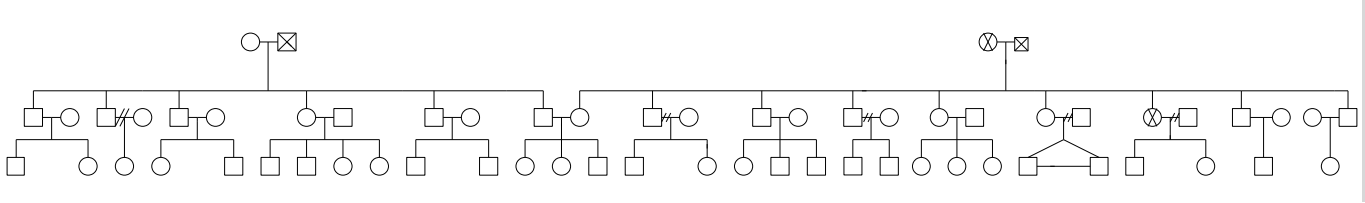
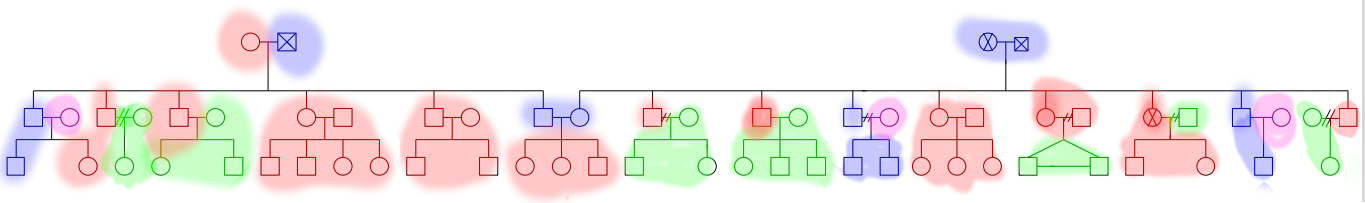
edição dos textos

diff --git a/content/A família.md b/content/A família.md
@@ -1,37 +1,59 @@
 ---
 title: "A família"
-isHome: true
 ---
+&nbsp;
 
-A característica que mais marca a minha família é sem dúvida os processos migratórios que grande parte dos membros vivenciam no decorrer de sua vida. Em função de ser uma família oriunda de uma cidade muito pequena do interior, sem muita oportunidades de emprego ou estudo, desde a geração dos meus pais, é muito comum que os membros saiam em busca de oportunidades em grandes centros, processo que é definido por Osório, et al (Ano, p. 35) como migração interna.
+A característica que mais marca a minha família é sem dúvida os processos migratórios que grande parte dos membros vivenciam no decorrer de sua vida. Em função de ser uma família oriunda de uma cidade muito pequena do interior, sem muita oportunidades de emprego ou estudo, desde a geração dos meus pais, é muito comum que os membros saiam em busca de oportunidades em grandes centros, processo que é definido por Cerveny e Berthoud (Ano, p. 35) como migração interna.
 
-Uma outra caracteristica que vejo atravessando a minha família nuclear é como as figuras femininas, mesmo sendo a fonte da principal de renda de suas respectivas casas, possuem expressivamente mais tarefas domésticas que seus maridos. Sob a minha ótica, utilizando uma análise como a proposta por Osório, et al (Ano, p.) ao sugerir analisar o aspecto da participação masculina nas tarefas domésticas levando em consideração as diversas fases do ciclo vital familiar, se enquadra perfeitamente com os resultados apresentados por Osório em sua pesquisa, onde os homens tendem a participar das atividades na fase de aquisição e tendem a abandona-los durante as fases subsequentes.  
+Uma outra caracteristica que vejo atravessando a minha família nuclear é como as figuras femininas, mesmo sendo a fonte da principal de renda de suas respectivas casas, possuem expressivamente mais tarefas domésticas que seus maridos. Sob a minha ótica, utilizando uma análise como a proposta por Cerveny e Berthoud (Ano, p.) ao sugerir analisar o aspecto da participação masculina nas tarefas domésticas levando em consideração as diversas fases do ciclo vital familiar, se enquadra perfeitamente com os resultados apresentados por Cerveny em sua pesquisa, onde os homens tendem a participar das atividades na fase de aquisição e tendem a abandona-los durante as fases subsequentes.  
 
-##### Contextualização Familia nuclear
+&nbsp;
+
+#### Contextualização Família nuclear
+&nbsp;
+&nbsp;
 
 Pai: Homem, 61 anos, segundo de seis irmãos. Ensino médio completo. Produtor rural.
+&nbsp;
 
-Mãe: 56 anos, terceira de oito irmãos. Nível superior. Professora municipal de ensino fundamental.
+Mãe: 56 anos, terceira de oito irmãos. Nível superior. Servidora municipal em uma instituição de ensino.
+&nbsp;
 
 Irmã mais velha: 37 anos. Mestre. Servidora pública Federal em uma instituição de ensino. Casada, 1 filha.
 
-Movimentos: Casa dos pais (0~14)-> Casa da tia (14~18) -> Irmã (18~20) -> Sozinha (20 ~22) -> Casa dos pais (22~23) -> Sozinha capital (23~29) -> Marido e filha na cidade natal (29~) 
+Movimentos: Casa dos pais (0~14) --> Casa da tia (14~18) --> Irmã (18~20) --> Sozinha (20 ~22) --> Casa dos pais (22~23) --> Sozinha capital (23~29) --> Com o  marido e filha na cidade natal (29~) 
+&nbsp;
 
 Irmã mais nova: 35 anos. Nível Superior. Farmacêutica. Casada, 1 filho.
 
-Movimentos: Casa dos pais (0~12)-> Casa da tia (12~16) -> Irmã (16~18) -> Sozinha Capital (18 ~24) -> Marido (24~25) -> Marido e Irmão (25~33) -> Marido e filho (33~) 
+Movimentos: Casa dos pais (0~12) --> Casa da tia (12~16) --> Com a irmã (16~18) --> Sozinha Capital (18 ~24) --> Com o marido (24~25)  Com o marido e o irmão (25~33) -> Com o marido e o filho (33~) 
+&nbsp;
 
 Eu: 24 anos. Estudante. Solteiro.
 
-Movimentos: Casa dos pais (0~14) -> Irmã(14~22) -> Primo (22~24) -> Sozinho(24~)
+Movimentos: Casa dos pais (0~14) -> Irmã(14~22) -> Casa do primo (22~24) -> Sozinho(24~)
+
+&nbsp;
 
 #### Contexto de migração na família
+&nbsp;
+![genograma](https://raw.githubusercontent.com/l4nly/ensaio/hugo/content/geno.png)
+&nbsp;
 
+```
+🟥: Residiu na cidade mas mora fora
+🟦: Reside na cidade
+🟣: Residiu em outro lugar mas mora na cidade
+🟩 : Nunca residiu na cidade
+```
 
-<img src="<https://raw.githubusercontent.com/l4nly/ensaio/hugo/content/geno.png>"
-	 />
+&nbsp;
+&nbsp;
+&nbsp;
+&nbsp;
+&nbsp;
+&nbsp;
 
 ----------------------
 
-#### [[Menu de Navegação]]	
-	 
+#### [[Menu de Navegação]]

diff --git a/content/Morando longe.md b/content/Morando longe.md
@@ -1,9 +1,16 @@
 ---
 title: Experiência em uma outra configuração
 ---
+&nbsp;
 
-Vários são os apectos interessantes de serem analisados nesse tópico. Como Wagner e Cols (ano, p. 23) apontam, aquela configuração familiar que era constituida por mim, minha irmã e meu cunhado, não explicava a estrutura esperada, que seria de um laço de irmãos à nível de igualdade. Entretanto, a estrutura existente ali era melhor explicada por um subsistema conjugal recém formado que subitamente se passou a ser um subsistema parental, uma vez que aquela irmã assume o papel de principal responsável sobre mim, recém adolescente. Wagner e Cols (ano, p. 23) sugere que o subsistema parental evolui de acordo com a fase do ciclo vital da família, entretanto um ponto interessante a se observar é que o subsistema parental evoluiu de modo a deixar de existir como um, com o passar do tempo, percebo que o modo de lidar da minha irmã comigo deixou de ser de um papel de cuidadore e voltou a existir como o papel de irmã, de igual, fato que explicita uma grande flexibilidade no assumir dos papeis dentro da minha familia, como sugere Wagner e Cols(ano, p. 27) ao dizer que a flexibilidade é um aspecto fundamental para o desempenhar de diversos papeis por um mesmo membro da família.    
+Vários são os apectos interessantes de serem analisados nesse tópico. Como Wagner, Tronco e Armani (2009, p. 23) apontam, aquela configuração familiar que era constituida por mim, minha irmã e meu cunhado, não explicava a estrutura esperada, que seria de um laço de irmãos à nível de igualdade. Entretanto, a estrutura existente ali era melhor explicada por um subsistema conjugal recém formado que subitamente se passou a ser um subsistema parental, uma vez que aquela irmã assume o papel de principal responsável sobre mim, recém adolescente. Wagner, Tronco e Armani (2009, p. 23) sugerem que o subsistema parental evolui de acordo com a fase do ciclo vital da família, entretanto um ponto interessante a se observar é que o subsistema parental evoluiu de modo a deixar de existir como um, com o passar do tempo, percebo que o modo de lidar da minha irmã comigo deixou de ser de um papel de cuidadore e voltou a existir como o papel de irmã, de igual, fato que explicita uma grande flexibilidade no assumir dos papeis dentro da minha familia, como sugerem Wagner, Tronco e Armani (2009, p. 27) ao dizer que a flexibilidade é um aspecto fundamental para o desempenhar de diversos papeis por um mesmo membro da família.    
 
+&nbsp;
+&nbsp;
+&nbsp;
+&nbsp;
+&nbsp;
+&nbsp;
 
 ----------------------
 

diff --git a/content/Migração, lealdade e mitos.md b/content/Migração, lealdade e mitos.md
@@ -1,11 +1,22 @@
 ---
 title: Migração, lealdade e mitos
 ---
+&nbsp;
+
 Como aponta Prado (ano, p. 19) que é comum que o conteúdo afetivo entre membros da família se empobreça em decorrência do seu afastamento. Aspecto esse que pode ser observado em dois cenários dentro da minha família, em relação entre mim e minhas irmãs e também em relação ao meus pais e seus irmãos, em ambos os casos pelo mesmo motivo, distância física entre os membros da família. Vale ressaltar que a mobilidade geográfica é possibilitada e frequente em decorrência do fator econômico não aparecer como um impeditivo como sugere Prado(ano, p. 83), segundo a autora esse evento não seria tão comum em famílias de menor poder aquisitivo. 
 
 Ainda que o conteúdo afetivo entre os membros da familia se tornem mais escassos com o passar dos anos e da distância, é interessante fazer um paralelo com o conceito de lealdade proposto por  Boszormenyi-Nagy (1973, apud Cerveny, 2012, p. 32) que dispõe que a lealdade é o principal vínculo entre as gerações dentro de uma familia, desse modo, baseado no endividadamento recíproco existente entre os membros com diferentes níveis de intensidade, observo que a lealdade, apesar da distância, ainda existe dentro da minha familia em um âmbito extra-nuclear, com o exemplo das chuvas que atingiram a cidade natal no fim do ano de 2021, a lealdade se manifestou através de uma mobilização quase que integral dos membros da família, mesmo daqueles que residiam longe, para auxiliar na reconstrução daquilo que foi atingido. 
 
+Para Penso, Costa e Ribeiro (2008, p. 11), o mito funciona em um contexto familiar "como transmissores de padrões relacionais multigeracionais". Desse modo, percebo que talvez o principal mito sustentado pela minha família, seja materna ou paterna, esteja ligado a importância da cidade natal como sendo parte fundamental da constituição da nossa família. A exemplo dos rituais que são realizados com grande frequência na cidade, como aniversários e comemorações natalinas, mesmo que grande parte da família resida longe.     
+
+&nbsp;
+&nbsp;
+&nbsp;
+&nbsp;
+&nbsp;
+&nbsp;
 
 ----------------------
 
-#### [[Menu de Navegação| Menu de navegação]]
+#### [[Menu de Navegação]]
+	 

diff --git a/content/Relação com irmãs.md b/content/Relação com irmãs.md
@@ -1,11 +1,19 @@
 ---
 title: Relação com irmãs
 ---
+&nbsp;
+
 Minhas irmãs, assim como eu, saíram da cada dos meus pais bastante cedo, todos por volta dos 14 anos de idade fato que se deu unicamente em função da familia nuclear estar estabelecida em uma cidade muito pequena e sem escolas de boa qualidade de ensino, por esse motivo, todos os filhos foram morar em alguma outra cidade quando atingimos essa idade.
 Durante a adolescência, minhas irmãs foram morar com uma tia em uma cidade que proporcionava melhor possibilidade de estudos. Residiram com essa tia até que a irmã mais velha ingressou na faculdade e com isso as irmãs foram morar juntas em uma outra cidade. O ingresso na faculdade pela irmã mais nova foi o evento responsável por separar as irmãs, uma vez que a irmã mais nova iria estudar na capital, equanto a irmã mais velha continuaria sua graduação em uma grande cidade do interior do estado. 
 A grande diferença de idade entre mim e minhas irmãs, acabou ocasionando um "desencontro" entre os irmãos que nos impediu de conviver muito na mesma casa. Apenas durante um breve período de pouco mais de um ano, quando a irmã mais velha havia se graduado na universidade convivemos juntos nas casas dos nossos pais. Desencontro esse que subitamente se inverteu quando eu completei 14 anos e [[Morando longe| fui morar com minha irmã mais nova]] capital do estado, naquele momento a irmã mais nova tinha 25 anos e havia acabado de se casar. Até momento em que fui morar com minha irmã mais nova, nós nunca havíamos convivido com por mais tempo que alguns meses durante férias escolares e algumas datas comemorativas mais expressivas como a semana santa e o São João.
 
+&nbsp;
+&nbsp;
+&nbsp;
+&nbsp;
+&nbsp;
+&nbsp;
 
 ----------------------
 
-#### [[Menu de Navegação| Menu de navegação]]
+#### [[Menu de Navegação]]

diff --git a/content/Entendimento de família.md b/content/Entendimento de família.md
@@ -1,8 +1,16 @@
 ---
 title: Entendendo família
 ---
+&nbsp;
+
 O que eu considero família. Acho que desde bem pequeno, eu sempre tive uma concepção de que família, efetivametente, eram aqueles que estavam próximos. Por esse motivo, por conta da configuração da minha família e da minha [[Relação com irmãs|relação distante com as minhas irmãs]], durante boa parte da minha infância, o meu conceito de família estava baseado apenas em mim e meus pais. Durante o fim da infância e início da adolescência acredito que minha percepção tenha começado a mudar, foi quando eu comecei a perceber minhas irmãs como membros efetivos da familia de fato, e não mais vê-las como "parentes" que passavam as férias na minha casa. Essa também foi a fase que reforcei ainda mais uma ideia de familia x "parente", por conta do distânciamento da minha família nuclear com o resto da família. Eventos recentes e o imersão na aula de psicologia da familia me fizeram repensar o meu entendimento do conceito familia, sobretudo o aspecto do [[Migração, lealdade e mitos|mito]]
 
+&nbsp;
+&nbsp;
+&nbsp;
+&nbsp;
+&nbsp;
+&nbsp;
 
 ----------------------
 

diff --git a/content/Motivações.md b/content/Motivações.md
@@ -2,14 +2,19 @@
 title: Introdução
 ---
 ####  Motivações 
+&nbsp;
 
 Para começar,  e sendo bem sincero comigo mesmo, esse trabalho, além do objetivo primário que é ser aprovado na matéria, durante o processo de idealização e construção, percebi o quão catárstico esse trabalho foi, principalmente pelo fato de me fazer pensar questões que eu nunca havia notado dentro das minhas relações familiares. A intenção de construir esse trabalho como website foi experimentar e explorar outros campos do conhecimento.
 
 Dentre os objetivos desse ensaio o primeiro ponto foi pensar o meu entendimento da [[Entendimento de família|definição de família]] durante os anos. Em seguida analisar os movimentos de migração que ocorreram na minha família e as diferentes configurações familiares decorrentes, além de relacionar aspectos a respeito dos conceitos de [[Migração, lealdade e mitos| lealdade e mitos]].
 
 
-
-
+&nbsp;
+&nbsp;
+&nbsp;
+&nbsp;
+&nbsp;
+&nbsp;
 
 ----------------------
 

diff --git a/content/Referencias.md b/content/Referencias.md
@@ -1,11 +1,28 @@
 ---
 title: Refêrencias
 ---
+&nbsp;
+
+
+CERVENY, C. **Família e intergeracionalidade**. São Paulo: Casa do Psicólogo, 2012.
+
+Cerveny, C. M. O., & Berthoud, C.M.E (2009).**Ciclo vital da família brasileira.** In:
+Osório, L.C., & Valle, M.E.P (Eds). Manual da terapia familiar (pp. 25-37).
+Porto Alegre: Artmed.
+
+PENSO, M. A. ; COSTA, L. F. ; RIBEIRO, M. A. . **Aspectos teóricos da transmissão transgeracional.** In: Maria Aparecida Penso; Liana Fortunato Costa. (Org.). A transmissão geracional em diferentes contextos. 1ed. São Paulo: Summus, 2008, v. 1, p. 9-23.
 
 PRADO, Danda. **O que é família**. Brasiliense, 2017.
 
-CERVENY, C. Família e intergeracionalidade. **São Paulo: Casa do Psicólogo**, 2012.
+WAGNER, Adriana. **Desafios psicossociais da família contemporânea: pesquisas e reflexões.** Artmed Editora, 2009.
 
+
+&nbsp;
+&nbsp;
+&nbsp;
+&nbsp;
+&nbsp;
+&nbsp;
 
 ----------------------
 

diff --git a/content/_index.md b/content/_index.md
@@ -19,5 +19,13 @@ Trabalho avaliativo para a disciplina de psicologia da família.
 ##### Disclaimer: 
 Por motivos de privacidade, por esse se tratar um trabalho de foro íntimo que se encontra publicado na internet, todos os nomes e dados de natureza particular foram suprimidos.
 
---------------------------------------------
-#####  [[Menu de Navegação]]
+&nbsp;
+&nbsp;
+&nbsp;
+&nbsp;
+&nbsp;
+&nbsp;
+
+----------------------
+
+#### [[Menu de Navegação]]
